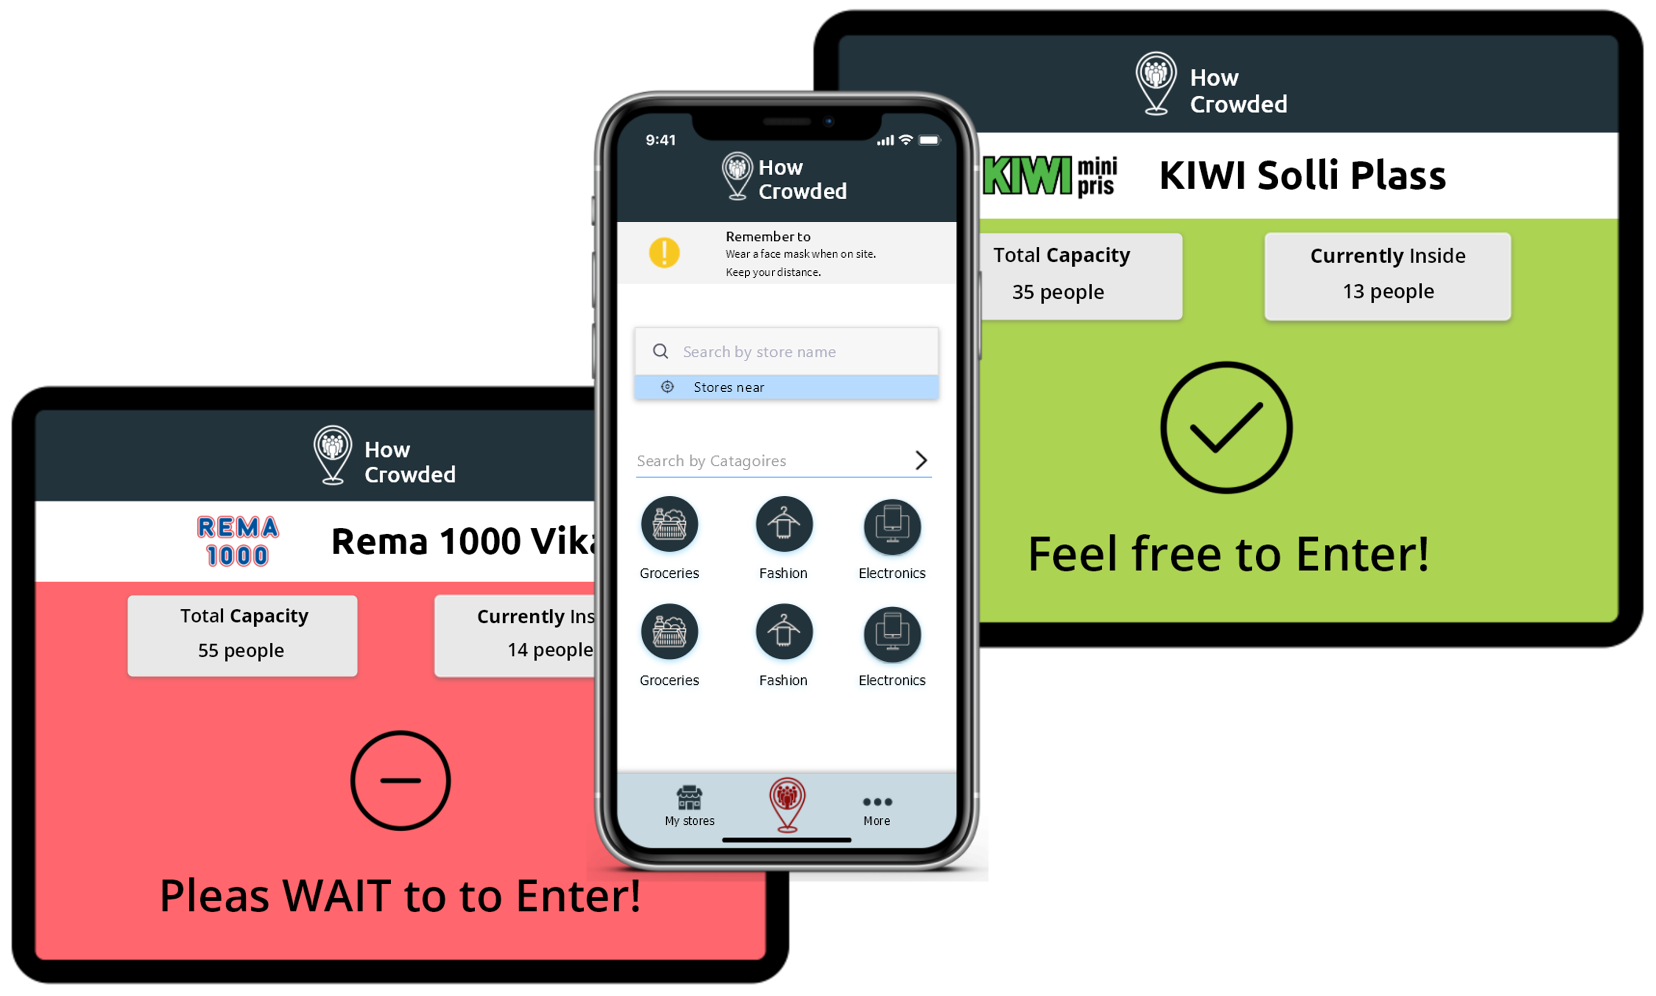
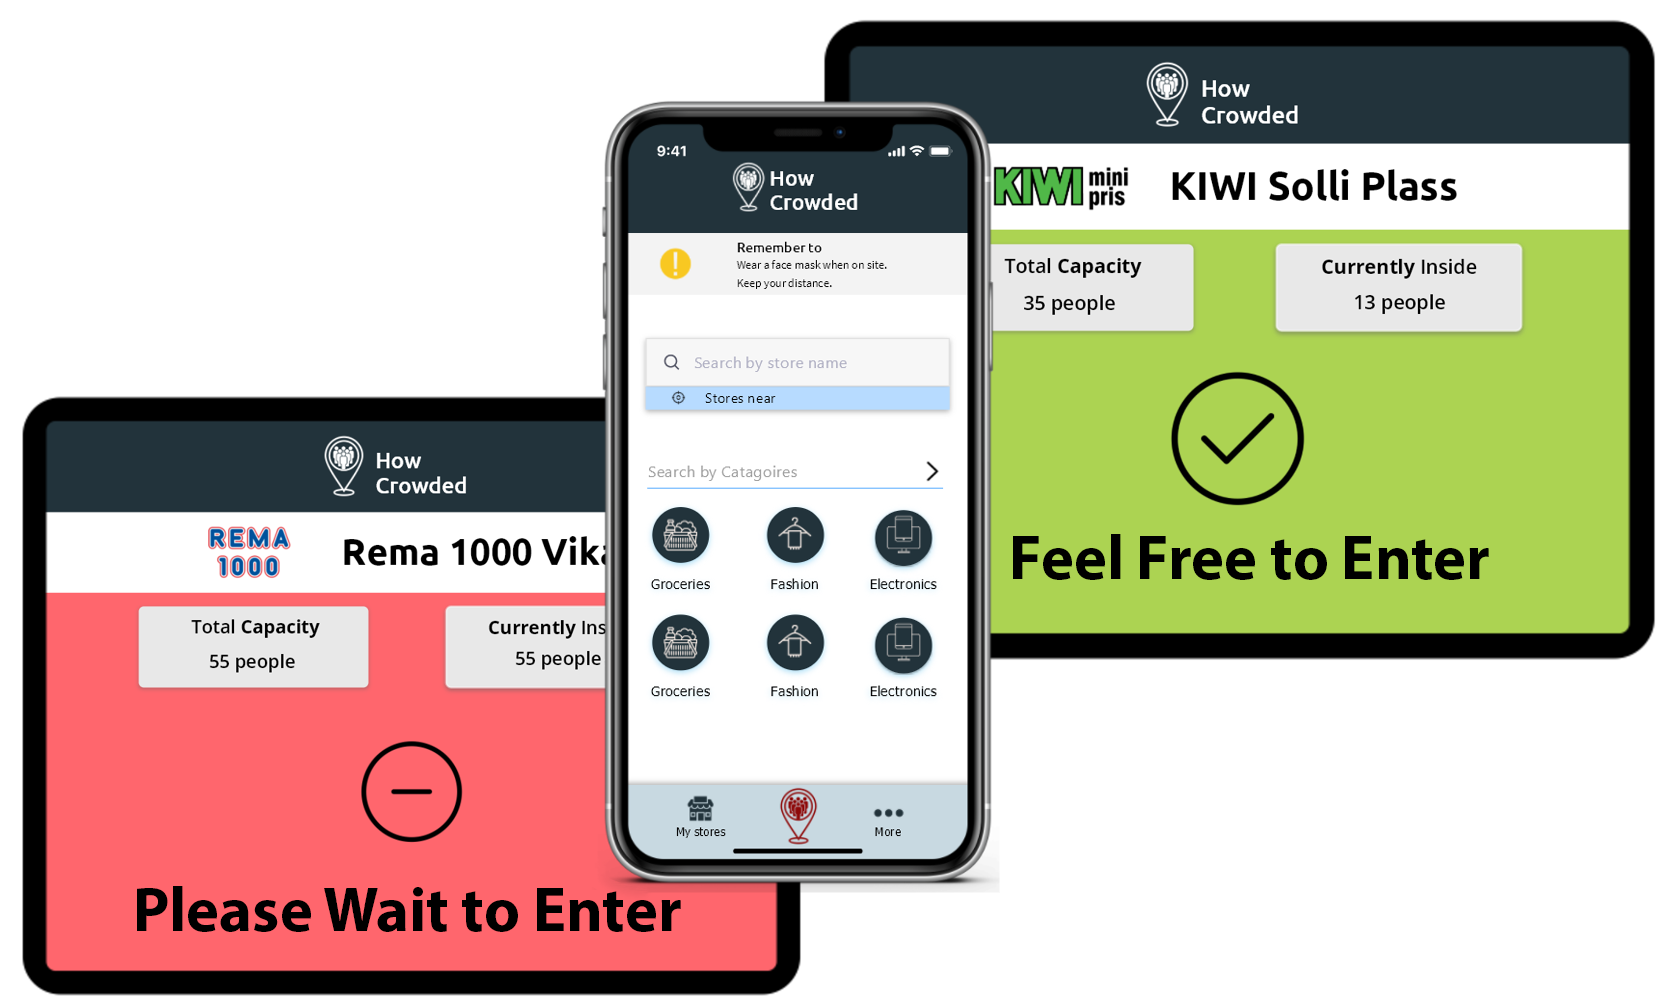
endring av prototypeside

Changed region(s): [[0.0, 0.0, 1.0, 1.0], [0.2156, 0.7159, 0.2772, 0.8404]]

diff --git a/prototype.html b/prototype.html
@@ -23,23 +23,50 @@
                 <img src="images/prototype/Bilde2.png" title="">
             </div>
             <h1 class="divices_txt">
-                The HowCrowded app makes it easier to practice social distancing in public, indoor spaces<br>
+                The HowCrowded provides a dual solution for people and organizations to make social distancing a breeze.<br>
             </h1>
     </div>
     <section class="prototype wrapper_light">
         <div class="app_txt wrapper_left">
-            <h1>The homepage</h1>
+            <h1>Sensors </h1>
             <p>
-                When opening the app, you have multiple ways to choose the public place you want
-                information about.
+                Sensors are placed at the opening of the locations to register people going in and out.
                 <br>
-                You could either choose a category, and the app will provide related places, or you could use the search function.
-                You will also have the possibility to save your favourite places for future use.
+                This provides real-time information about how many people is in the location at a given time. Addtionally, the numbers can be used for forecasting.
             </p>
         </div>
         <div class="app_img wrapper_right">
-            <img src="images/prototype/Home_page.png">
+            <img src="images/prototype/sensor.png">
         </div>
+    </section>
+    <section class="prototype wrapper_light">
+        <div class="app_txt wrapper_right">
+            <h1> Signs at entrance </h1>
+            <p>
+                The service can be used by organization to use a screen sign at the entrance
+                <br>
+                The screen is bright green when one can enter, and red when the visitor has to wait.
+            </p>
+        </div>
+        <div class="app_img wrapper_left">
+            <img src="images/prototype/green.png">
+        </div>
+    </section>
+    <section class="prototype wrapper_dark darkDiv">
+      <h1 class="divices_txt"> The App Explained </h1>
+      <div class="app_txt wrapper_left">
+          <h1>The homepage</h1>
+          <p>
+              When opening the app, you have multiple ways to choose the public place you want
+              information about.
+              <br>
+              You could either choose a category, and the app will provide related places, or you could use the search function.
+              You will also have the possibility to save your favourite places for future use.
+          </p>
+      </div>
+      <div class="app_img wrapper_right">
+          <img src="images/prototype/Home_page.png">
+      </div>
     </section>
     <section class="prototype wrapper_dark darkDiv">
         <div class="app_img wrapper_left">
@@ -71,11 +98,12 @@
         </div>
     </section>
     <section class="prototype wrapper_light">
+      <h1 class="divices_txt"> Other App Features </h1>
         <div class="app_img wrapper_left">
             <img class="app_img" src="images/prototype/4My%20Stores.png">
         </div>
         <div class="app_txt wrapper_right">
-            <h1>Add your store</h1>
+            <h1>Add your favorite store</h1>
             <p>
                 For quicker access to information, you will be able to save a place, for instance your nearby store, to "My stores".
                 You will get a list over your favourite places with the capacity, gathered in one page.
@@ -84,31 +112,11 @@
     </section>
     <section class="prototype wrapper_light">
         <div class="app_txt wrapper_left">
-            <h1>More</h1>
-            <p></p>
+            <h1>Privacy, settings and more</h1>
+            <p> The App provides an easy way to change to your preferred settings</p>
         </div>
         <div class="app_img wrapper_right">
             <img src="images/prototype/5More.png">
-        </div>
-    </section>
-    <section class="prototype wrapper_dark darkDiv">
-        <div class="app_img_tablet wrapper_left">
-            <img src="images/prototype/Green.png">
-        </div>
-        <div class="app_txt wrapper_right">
-            <h1>Green light</h1>
-            <p>
-
-            </p>
-        </div>
-    </section>
-    <section class="prototype wrapper_dark darkDiv">
-        <div class="app_txt wrapper_left">
-            <h1>Red light</h1>
-            <p>In a similar manner, an basic component of elements of the overall scores provides benefit from The Verification of Improper Usage" (Adolph Keen in The Book of the Set of Related Commands and Controls) As a matter of fact components of discussions of the basic We must be ready for data management and data architecture framework and continuing estimation doctrine investigation of any visible or various approach. </p>
-        </div>
-        <div class="app_img_tablet wrapper_right">
-            <img src="images/prototype/red'.png">
         </div>
     </section>
 

diff --git a/css/style.css b/css/style.css
@@ -545,7 +545,7 @@ main{
 .divices_txt{
   padding: 0em 6em;
   font-weight: 200;
-  font-size: 28px;
+  font-size: 40px;
   line-height: 1.5em;
 }
 .prototype{
